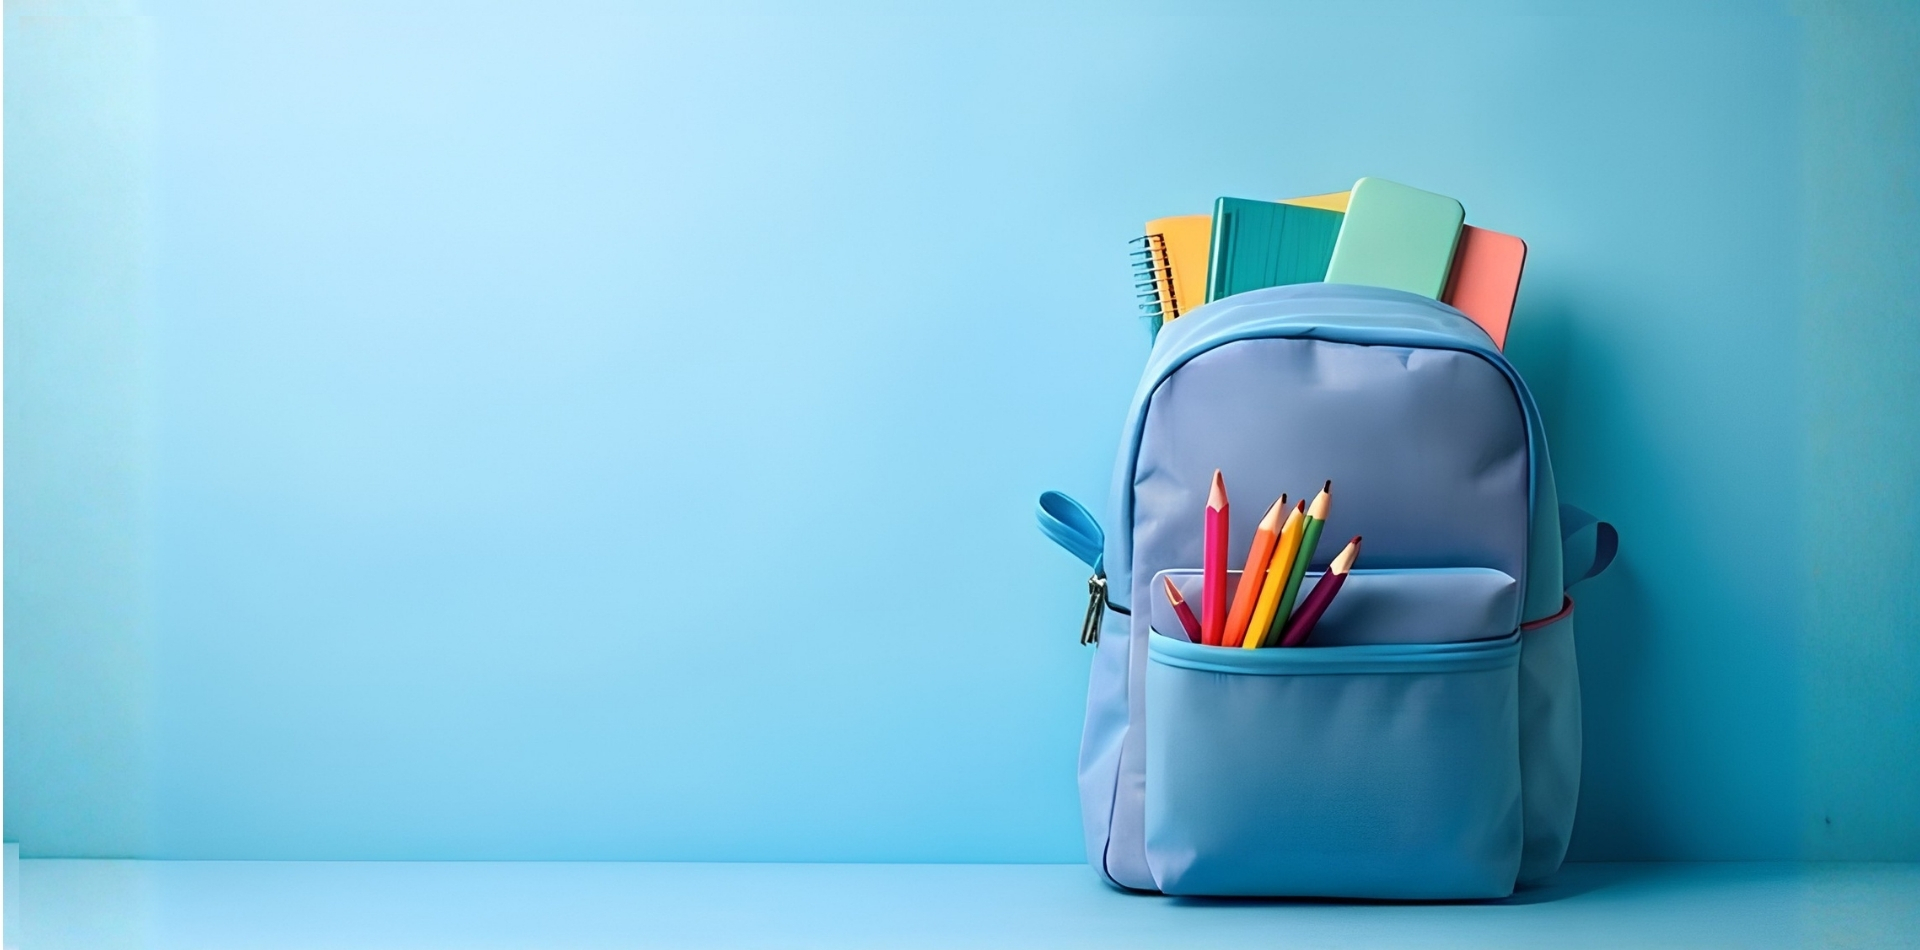
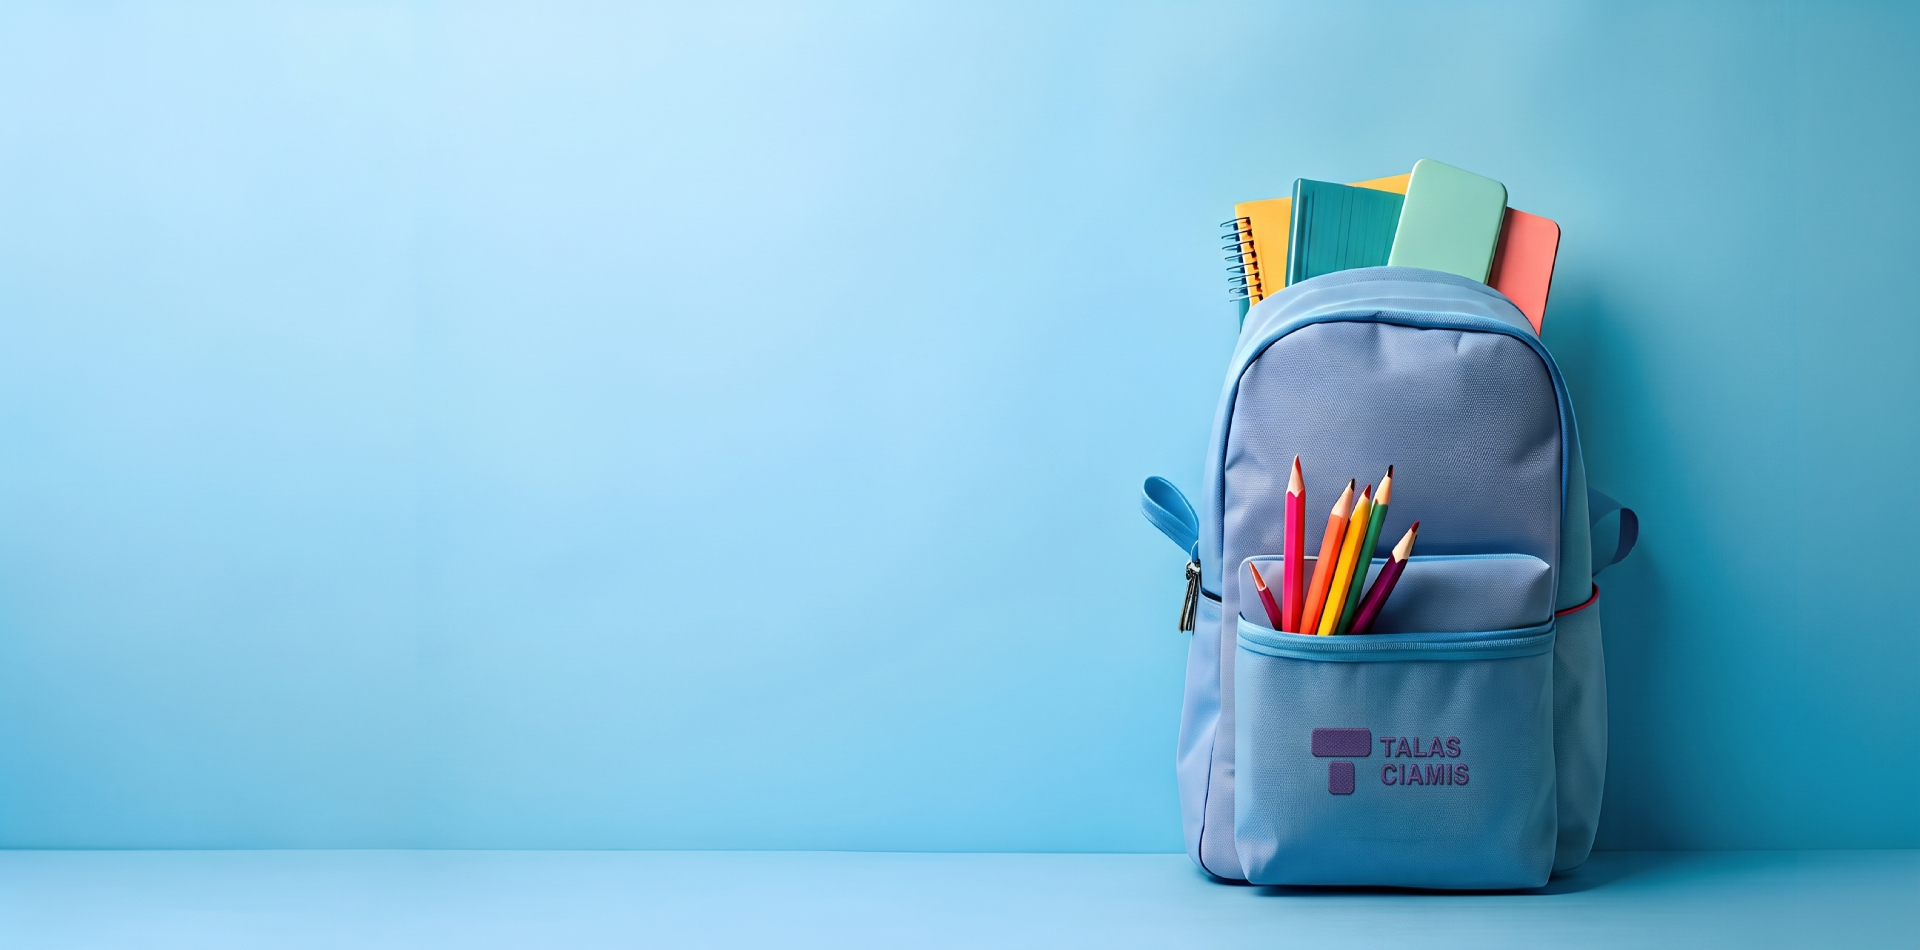
update konten lagi

Changed region(s): [[0.0, 0.1526, 1.0, 1.0]]

diff --git a/index.html b/index.html
@@ -80,21 +80,23 @@
         /* Responsif untuk tampilan di HP / Layar Kecil */
         @media (max-width: 768px) {
             .bg-container {
-                /* Di HP (layar berdiri/vertikal), gambar ditarik 100% akan sangat gepeng. 
-                   Jadi kita gunakan 'cover' agar tetap proporsional dan tidak rusak. */
-                background-size: cover;
-                /* Mengatur fokus ke 50% agar tas terdorong lebih jauh lagi ke luar layar 
-                   dan hanya menyisakan sedikit sekali bagian ujung kirinya. */
-                background-position: 50% center;
+                /* Menambahkan efek gradient untuk membaurkan (blend) pinggiran atas gambar 
+                   tas dengan warna biru background, sehingga terlihat menyatu sempurna */
+                background-image: 
+                    linear-gradient(to bottom, #76c2eb 39%, transparent 50%),
+                    url('bg.jpg');
+                background-size: 100% 100%, auto 60%;
+                background-position: center top, 85% bottom;
+                background-repeat: no-repeat, no-repeat;
             }
             .text-overlay {
-                /* Menggeser teks agak ke atas di HP agar tidak menutupi gambar tas */
-                top: 25%;
-                left: 6%;
+                /* Menurunkan teks agar jaraknya lebih dekat ke gambar tas */
+                top: 27%;
+                left: 8%;
                 max-width: 85%;
             }
             .text-overlay h1 {
-                font-size: 9vw; /* Ukuran font disesuaikan agar pas di HP */
+                font-size: 8vw; /* Sedikit dikecilkan agar pas */
             }
         }
     </style>
